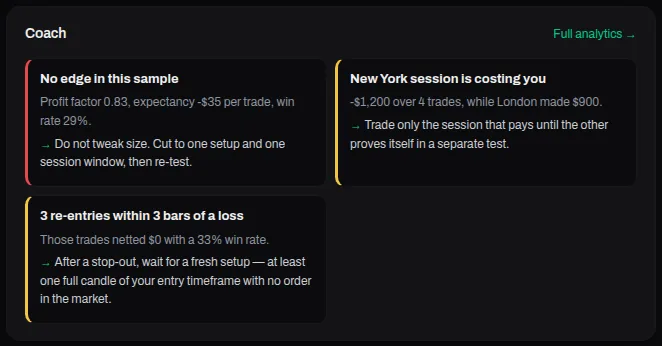
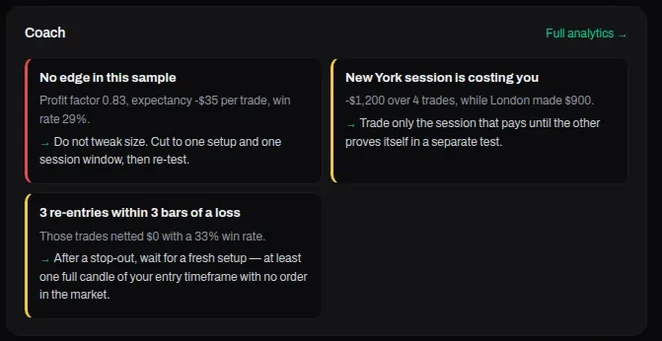
Release 369: image frames + cards on backtesting and community
Improvement 2 on the two new pages: .fp-pad on every row frame and the hero
body, data-fp-nopad on the logos, and every capture canvas-extended with the
app background (#0a0a0c) so no content meets the frame edge (pixels unchanged,
scaled back to the original width; width/height, aspect-ratio and the one
community overlay box remapped). Improvement 1 (cards + pulsing string) comes
from the shared template. Visible text is identical to 04f617a4 / 78ba9a4e.

diff --git a/features/backtesting.html b/features/backtesting.html
@@ -90,7 +90,7 @@
 <nav class="nav" id="site-nav">
   <div class="nav-inner">
     <a href="/" class="brand">
-      <img class="brand-mark" src="/assets/images/logo-header.webp" alt="Stryker Trading Academy" width="243" height="160" onerror="this.onerror=null;this.src='/assets/images/logo-header.png';">
+      <img class="brand-mark" data-fp-nopad src="/assets/images/logo-header.webp" alt="Stryker Trading Academy" width="243" height="160" onerror="this.onerror=null;this.src='/assets/images/logo-header.png';">
     </a>
     <div class="nav-links">
       <a href="/features">Features</a>
@@ -112,8 +112,8 @@
 <h1>Practise on past charts, <em>one bar at a time</em></h1>
 <figure class="gv-term solo" data-fp-play>
 <div class="gv-term-bar"><span class="gv-dot"></span><b>REPLAY · PRACTICE SESSION</b></div>
-<div class="gv-term-body">
-<div class="gv-chart"><picture><source media="(max-width:600px)" srcset="/assets/images/backtesting/hero-m.webp" width="740" height="430"><img src="/assets/images/backtesting/hero.webp" width="1000" height="582" fetchpriority="high" decoding="async" alt="The Stryker replay workspace with a demo practice session: a BTC/USDT 5-minute candlestick chart with a stop and target drawn on it, a play and step control, and an account panel with one open position."></picture></div>
+<div class="gv-term-body fp-pad">
+<div class="gv-chart"><picture><source media="(max-width:600px)" srcset="/assets/images/backtesting/hero-m.webp" width="740" height="436"><img src="/assets/images/backtesting/hero.webp" width="1000" height="598" fetchpriority="high" decoding="async" alt="The Stryker replay workspace with a demo practice session: a BTC/USDT 5-minute candlestick chart with a stop and target drawn on it, a play and step control, and an account panel with one open position."></picture></div>
 </div>
 <figcaption class="fg-cap">Demo data. A practice replay session on BTC/USDT.</figcaption>
 </figure>
@@ -122,7 +122,7 @@
 <p class="fg-note">Every number in these screenshots comes from one demo practice session. Education only. Not financial advice.</p>
 </header>
 <div class="container">
-<section class="ft-section sx" id="whats-on-the-page"><div class="ft-section-head ft-reveal"><h2>What’s in replay and backtesting</h2><p>Real screens from the tool, filled by one short demo practice session. Scroll through, or jump to one.</p></div><nav class="sx-index" aria-label="Jump to a feature"><div><a href="#sx-f-replay" data-fp-ix="replay"><em>01</em>Replay</a><a href="#sx-f-orders" data-fp-ix="orders"><em>02</em>Orders</a><a href="#sx-f-trades" data-fp-ix="trades"><em>03</em>Trades</a><a href="#sx-f-dashboard" data-fp-ix="dashboard"><em>04</em>Dashboard</a><a href="#sx-f-coach" data-fp-ix="coach"><em>05</em>Coach</a><a href="#sx-f-drawdown" data-fp-ix="drawdown"><em>06</em>Drawdown</a><a href="#sx-f-simulation" data-fp-ix="simulation"><em>07</em>Simulation</a><a href="#sx-f-side" data-fp-ix="side"><em>08</em>Breakdowns</a><a href="#sx-f-sessions" data-fp-ix="sessions"><em>09</em>Sessions</a></div></nav><div class="sx-rows"><article class="sx-row" id="sx-f-replay" data-fp-row="replay"><div class="sx-frame"><div class="sx-media" style="aspect-ratio:1000/582;--ar:1.7182"><img src="/assets/images/backtesting/hero.webp" width="1000" height="582" loading="lazy" decoding="async" alt="Replay workspace with demo data: a candlestick chart, timeframe buttons, drawing tools on the left and a play, +1 and +10 bar control."></div><p class="sx-cap">Demo data. The replay chart.</p></div><div class="sx-copy"><span class="sx-n">01 / 09</span><h3>Bar-by-bar replay</h3><p class="sx-text">The chart only shows what had happened up to the current bar. Play it at a chosen speed, step one or ten bars, or jump to the next day or the New York open.</p><details class="sx-how"><summary>How it works</summary><p>Choose a market, a start date and a window of one week to a few months. Futures, forex and crypto candles are loaded once and kept in your browser, or you can load your own CSV file. Switch timeframes from 1 minute up to weekly, and add a higher-timeframe chart beside it.</p></details></div></article><article class="sx-row flip" id="sx-f-orders" data-fp-row="orders"><div class="sx-frame"><div class="sx-media" style="aspect-ratio:327/279;--ar:1.1720"><img src="/assets/images/backtesting/orders.webp" width="327" height="279" loading="lazy" decoding="async" alt="Replay account panel with demo data: balance, equity, open and net P&L, and one open position with stop and target fields."></div><p class="sx-cap">Demo data. The practice account and an open position.</p></div><div class="sx-copy"><span class="sx-n">02 / 09</span><h3>Simulated orders</h3><p class="sx-text">Buy or sell from the chart, the order ticket or the keyboard. Attach a stop and a target, move them, or close part of a position. The practice account tracks balance, equity and open P&L as you step.</p><details class="sx-how"><summary>How it works</summary><p>Fills are conservative: market orders fill at the last close plus any slippage you set, gaps fill at the open, and if one bar touches both your stop and your target the stop counts first. Commission per contract can be set per session.</p></details></div></article><article class="sx-row" id="sx-f-trades" data-fp-row="trades"><div class="sx-frame"><div class="sx-media" style="aspect-ratio:1000/423;--ar:2.3641"><img src="/assets/images/backtesting/trades.webp" width="1000" height="423" loading="lazy" decoding="async" alt="Backtesting trades table with demo data: date, session, market, side, size, entry and exit, P&L, R-multiple and exit reason."></div><p class="sx-cap">Demo data. Trades from the practice session.</p></div><div class="sx-copy"><span class="sx-n">03 / 09</span><h3>Every trade, logged</h3><p class="sx-text">Each closed practice trade is listed with its session, side, size, entry and exit, R-multiple and why it closed. Tag the setup and any mistake, and add a note.</p><details class="sx-how"><summary>How it works</summary><p>Filter by market, side, outcome, session, setup, weekday, hour or date. Trades can be exported to CSV or copied into your trade journal.</p></details></div></article><article class="sx-row flip" id="sx-f-dashboard" data-fp-row="dashboard"><div class="sx-frame"><div class="sx-media" style="aspect-ratio:1000/264;--ar:3.7879"><img src="/assets/images/backtesting/pnl.webp" width="1000" height="264" loading="lazy" decoding="async" alt="Backtesting dashboard with demo data: a profit and loss line over the practice session."></div><p class="sx-cap">Demo data. Practice P&L over time.</p></div><div class="sx-copy"><span class="sx-n">04 / 09</span><h3>Backtesting dashboard</h3><p class="sx-text">One dashboard across all your practice sessions: P&L over time, win and loss breakdowns, performance by side and by trading session, recent sessions and a P&L calendar.</p><details class="sx-how"><summary>How it works</summary><p>Sessions are saved in your browser as you go, with a copy on your account so you can resume on another device.</p></details></div></article><article class="sx-row" id="sx-f-coach" data-fp-row="coach"><div class="sx-frame"><div class="sx-media" style="aspect-ratio:662/346;--ar:1.9133"><img src="/assets/images/backtesting/coach.webp" width="662" height="346" loading="lazy" decoding="async" alt="Replay coach card with demo data: findings about the sample size, a losing trading session and re-entries after a loss, each with a suggestion."></div><p class="sx-cap">Demo data. Coach findings on the practice session.</p></div><div class="sx-copy"><span class="sx-n">05 / 09</span><h3>The replay coach</h3><p class="sx-text">Rule-based checks on your own practice trades: losing streaks, overtrading, re-entries straight after a loss, which session costs you, and your most frequent tagged mistake. Each finding comes with a suggestion.</p><details class="sx-how"><summary>How it works</summary><p>It is a fixed set of rules that runs in your browser on your own trades. It is not a chatbot and nothing is sent anywhere for it. While you trade it can also show a short nudge, for example after several losses in a row.</p></details></div></article><article class="sx-row flip" id="sx-f-drawdown" data-fp-row="drawdown"><div class="sx-frame"><div class="sx-media" style="aspect-ratio:1000/603;--ar:1.6584"><img src="/assets/images/backtesting/drawdown.webp" width="1000" height="603" loading="lazy" decoding="async" alt="Backtesting drawdown view with demo data: drawdown stat cards above a drawdown chart and an equity chart."></div><p class="sx-cap">Demo data. Drawdown and equity for the practice session.</p></div><div class="sx-copy"><span class="sx-n">06 / 09</span><h3>Drawdown and equity</h3><p class="sx-text">How deep and how long your practice equity fell from its high, next to the equity curve itself.</p><details class="sx-how"><summary>How it works</summary><p>Drawn from closed practice trades and the starting balance you chose for each session.</p></details></div></article><article class="sx-row" id="sx-f-simulation" data-fp-row="simulation"><div class="sx-frame"><div class="sx-media" style="aspect-ratio:1000/469;--ar:2.1322"><img src="/assets/images/backtesting/sim.webp" width="1000" height="469" loading="lazy" decoding="async" alt="Backtesting simulation view with demo data: shuffled-order outcome bands around the practice equity curve."></div><p class="sx-cap">Demo data. Simulation output, not a forecast.</p></div><div class="sx-copy"><span class="sx-n">07 / 09</span><h3>Trade-order simulation</h3><p class="sx-text">Shuffles the order of your practice trades many times to show how much the same trades could have swung in a different sequence.</p><details class="sx-how"><summary>How it’s calculated</summary><p>It re-orders the trades you already took. It does not create new trades and it is not a forecast: a small sample, like the one here, says very little.</p></details></div></article><article class="sx-row flip" id="sx-f-side" data-fp-row="side"><div class="sx-frame"><div class="sx-media" style="aspect-ratio:1000/174;--ar:5.7471"><img src="/assets/images/backtesting/side.webp" width="1000" height="174" loading="lazy" decoding="async" alt="Backtesting analytics with demo data: donut charts splitting practice trades by long and short."></div><p class="sx-cap">Demo data. Long against short.</p></div><div class="sx-copy"><span class="sx-n">08 / 09</span><h3>Breakdowns</h3><p class="sx-text">Split your practice trades by side, session, hour, weekday, setup tag, market and exit reason, and see where the R-multiples cluster.</p><details class="sx-how"><summary>How it works</summary><p>Every chart uses the same filters as the trades table.</p></details></div></article><article class="sx-row" id="sx-f-sessions" data-fp-row="sessions"><div class="sx-frame"><div class="sx-media" style="aspect-ratio:1000/169;--ar:5.9172"><img src="/assets/images/backtesting/sessions.webp" width="1000" height="169" loading="lazy" decoding="async" alt="A saved replay session card with demo data: name, market, progress ring, P&L and a resume button."></div><p class="sx-cap">Demo data. A saved practice session.</p></div><div class="sx-copy"><span class="sx-n">09 / 09</span><h3>Saved sessions</h3><p class="sx-text">Every session keeps its place, drawings, indicators and orders, so you can stop and resume where you left off.</p><details class="sx-how"><summary>How it works</summary><p>Rename, resume or delete sessions from the Sessions view.</p></details></div></article></div></section>
+<section class="ft-section sx" id="whats-on-the-page"><div class="ft-section-head ft-reveal"><h2>What’s in replay and backtesting</h2><p>Real screens from the tool, filled by one short demo practice session. Scroll through, or jump to one.</p></div><nav class="sx-index" aria-label="Jump to a feature"><div><a href="#sx-f-replay" data-fp-ix="replay"><em>01</em>Replay</a><a href="#sx-f-orders" data-fp-ix="orders"><em>02</em>Orders</a><a href="#sx-f-trades" data-fp-ix="trades"><em>03</em>Trades</a><a href="#sx-f-dashboard" data-fp-ix="dashboard"><em>04</em>Dashboard</a><a href="#sx-f-coach" data-fp-ix="coach"><em>05</em>Coach</a><a href="#sx-f-drawdown" data-fp-ix="drawdown"><em>06</em>Drawdown</a><a href="#sx-f-simulation" data-fp-ix="simulation"><em>07</em>Simulation</a><a href="#sx-f-side" data-fp-ix="side"><em>08</em>Breakdowns</a><a href="#sx-f-sessions" data-fp-ix="sessions"><em>09</em>Sessions</a></div></nav><div class="sx-rows"><article class="sx-row" id="sx-f-replay" data-fp-row="replay"><div class="sx-frame fp-pad"><div class="sx-media" style="aspect-ratio:1000/598;--ar:1.6722"><img src="/assets/images/backtesting/hero.webp" width="1000" height="598" loading="lazy" decoding="async" alt="Replay workspace with demo data: a candlestick chart, timeframe buttons, drawing tools on the left and a play, +1 and +10 bar control."></div><p class="sx-cap">Demo data. The replay chart.</p></div><div class="sx-copy"><span class="sx-n">01 / 09</span><h3>Bar-by-bar replay</h3><p class="sx-text">The chart only shows what had happened up to the current bar. Play it at a chosen speed, step one or ten bars, or jump to the next day or the New York open.</p><details class="sx-how"><summary>How it works</summary><p>Choose a market, a start date and a window of one week to a few months. Futures, forex and crypto candles are loaded once and kept in your browser, or you can load your own CSV file. Switch timeframes from 1 minute up to weekly, and add a higher-timeframe chart beside it.</p></details></div></article><article class="sx-row flip" id="sx-f-orders" data-fp-row="orders"><div class="sx-frame fp-pad"><div class="sx-media" style="aspect-ratio:327/272;--ar:1.2022"><img src="/assets/images/backtesting/orders.webp" width="327" height="272" loading="lazy" decoding="async" alt="Replay account panel with demo data: balance, equity, open and net P&L, and one open position with stop and target fields."></div><p class="sx-cap">Demo data. The practice account and an open position.</p></div><div class="sx-copy"><span class="sx-n">02 / 09</span><h3>Simulated orders</h3><p class="sx-text">Buy or sell from the chart, the order ticket or the keyboard. Attach a stop and a target, move them, or close part of a position. The practice account tracks balance, equity and open P&L as you step.</p><details class="sx-how"><summary>How it works</summary><p>Fills are conservative: market orders fill at the last close plus any slippage you set, gaps fill at the open, and if one bar touches both your stop and your target the stop counts first. Commission per contract can be set per session.</p></details></div></article><article class="sx-row" id="sx-f-trades" data-fp-row="trades"><div class="sx-frame fp-pad"><div class="sx-media" style="aspect-ratio:1000/444;--ar:2.2523"><img src="/assets/images/backtesting/trades.webp" width="1000" height="444" loading="lazy" decoding="async" alt="Backtesting trades table with demo data: date, session, market, side, size, entry and exit, P&L, R-multiple and exit reason."></div><p class="sx-cap">Demo data. Trades from the practice session.</p></div><div class="sx-copy"><span class="sx-n">03 / 09</span><h3>Every trade, logged</h3><p class="sx-text">Each closed practice trade is listed with its session, side, size, entry and exit, R-multiple and why it closed. Tag the setup and any mistake, and add a note.</p><details class="sx-how"><summary>How it works</summary><p>Filter by market, side, outcome, session, setup, weekday, hour or date. Trades can be exported to CSV or copied into your trade journal.</p></details></div></article><article class="sx-row flip" id="sx-f-dashboard" data-fp-row="dashboard"><div class="sx-frame fp-pad"><div class="sx-media" style="aspect-ratio:1000/266;--ar:3.7594"><img src="/assets/images/backtesting/pnl.webp" width="1000" height="266" loading="lazy" decoding="async" alt="Backtesting dashboard with demo data: a profit and loss line over the practice session."></div><p class="sx-cap">Demo data. Practice P&L over time.</p></div><div class="sx-copy"><span class="sx-n">04 / 09</span><h3>Backtesting dashboard</h3><p class="sx-text">One dashboard across all your practice sessions: P&L over time, win and loss breakdowns, performance by side and by trading session, recent sessions and a P&L calendar.</p><details class="sx-how"><summary>How it works</summary><p>Sessions are saved in your browser as you go, with a copy on your account so you can resume on another device.</p></details></div></article><article class="sx-row" id="sx-f-coach" data-fp-row="coach"><div class="sx-frame fp-pad"><div class="sx-media" style="aspect-ratio:662/341;--ar:1.9413"><img src="/assets/images/backtesting/coach.webp" width="662" height="341" loading="lazy" decoding="async" alt="Replay coach card with demo data: findings about the sample size, a losing trading session and re-entries after a loss, each with a suggestion."></div><p class="sx-cap">Demo data. Coach findings on the practice session.</p></div><div class="sx-copy"><span class="sx-n">05 / 09</span><h3>The replay coach</h3><p class="sx-text">Rule-based checks on your own practice trades: losing streaks, overtrading, re-entries straight after a loss, which session costs you, and your most frequent tagged mistake. Each finding comes with a suggestion.</p><details class="sx-how"><summary>How it works</summary><p>It is a fixed set of rules that runs in your browser on your own trades. It is not a chatbot and nothing is sent anywhere for it. While you trade it can also show a short nudge, for example after several losses in a row.</p></details></div></article><article class="sx-row flip" id="sx-f-drawdown" data-fp-row="drawdown"><div class="sx-frame fp-pad"><div class="sx-media" style="aspect-ratio:1000/621;--ar:1.6103"><img src="/assets/images/backtesting/drawdown.webp" width="1000" height="621" loading="lazy" decoding="async" alt="Backtesting drawdown view with demo data: drawdown stat cards above a drawdown chart and an equity chart."></div><p class="sx-cap">Demo data. Drawdown and equity for the practice session.</p></div><div class="sx-copy"><span class="sx-n">06 / 09</span><h3>Drawdown and equity</h3><p class="sx-text">How deep and how long your practice equity fell from its high, next to the equity curve itself.</p><details class="sx-how"><summary>How it works</summary><p>Drawn from closed practice trades and the starting balance you chose for each session.</p></details></div></article><article class="sx-row" id="sx-f-simulation" data-fp-row="simulation"><div class="sx-frame fp-pad"><div class="sx-media" style="aspect-ratio:1000/495;--ar:2.0202"><img src="/assets/images/backtesting/sim.webp" width="1000" height="495" loading="lazy" decoding="async" alt="Backtesting simulation view with demo data: shuffled-order outcome bands around the practice equity curve."></div><p class="sx-cap">Demo data. Simulation output, not a forecast.</p></div><div class="sx-copy"><span class="sx-n">07 / 09</span><h3>Trade-order simulation</h3><p class="sx-text">Shuffles the order of your practice trades many times to show how much the same trades could have swung in a different sequence.</p><details class="sx-how"><summary>How it’s calculated</summary><p>It re-orders the trades you already took. It does not create new trades and it is not a forecast: a small sample, like the one here, says very little.</p></details></div></article><article class="sx-row flip" id="sx-f-side" data-fp-row="side"><div class="sx-frame fp-pad"><div class="sx-media" style="aspect-ratio:1000/180;--ar:5.5556"><img src="/assets/images/backtesting/side.webp" width="1000" height="180" loading="lazy" decoding="async" alt="Backtesting analytics with demo data: donut charts splitting practice trades by long and short."></div><p class="sx-cap">Demo data. Long against short.</p></div><div class="sx-copy"><span class="sx-n">08 / 09</span><h3>Breakdowns</h3><p class="sx-text">Split your practice trades by side, session, hour, weekday, setup tag, market and exit reason, and see where the R-multiples cluster.</p><details class="sx-how"><summary>How it works</summary><p>Every chart uses the same filters as the trades table.</p></details></div></article><article class="sx-row" id="sx-f-sessions" data-fp-row="sessions"><div class="sx-frame fp-pad"><div class="sx-media" style="aspect-ratio:1000/192;--ar:5.2083"><img src="/assets/images/backtesting/sessions.webp" width="1000" height="192" loading="lazy" decoding="async" alt="A saved replay session card with demo data: name, market, progress ring, P&L and a resume button."></div><p class="sx-cap">Demo data. A saved practice session.</p></div><div class="sx-copy"><span class="sx-n">09 / 09</span><h3>Saved sessions</h3><p class="sx-text">Every session keeps its place, drawings, indicators and orders, so you can stop and resume where you left off.</p><details class="sx-how"><summary>How it works</summary><p>Rename, resume or delete sessions from the Sessions view.</p></details></div></article></div></section>
 
 <section class="ft-section" id="how-it-works">
 <div class="ft-section-head ft-reveal"><h2>Set up, replay, review</h2><p>A practice session takes a few minutes to start.</p></div>
@@ -167,7 +167,7 @@
     <div class="footer-grid">
       <div>
         <a href="/" class="brand" style="margin-bottom:14px;">
-          <img class="brand-mark" src="/assets/images/logo-header.webp" alt="Stryker Trading Academy" width="243" height="160" onerror="this.onerror=null;this.src='/assets/images/logo-header.png';">
+          <img class="brand-mark" data-fp-nopad src="/assets/images/logo-header.webp" alt="Stryker Trading Academy" width="243" height="160" onerror="this.onerror=null;this.src='/assets/images/logo-header.png';">
         </a>
         <p style="color:var(--ink-3); font-size:13.5px; max-width:280px;">Chapter-based ICT and SMT trading education, built like a trading desk curriculum.</p>
       </div>

diff --git a/features/community.html b/features/community.html
@@ -90,7 +90,7 @@
 <nav class="nav" id="site-nav">
   <div class="nav-inner">
     <a href="/" class="brand">
-      <img class="brand-mark" src="/assets/images/logo-header.webp" alt="Stryker Trading Academy" width="243" height="160" onerror="this.onerror=null;this.src='/assets/images/logo-header.png';">
+      <img class="brand-mark" data-fp-nopad src="/assets/images/logo-header.webp" alt="Stryker Trading Academy" width="243" height="160" onerror="this.onerror=null;this.src='/assets/images/logo-header.png';">
     </a>
     <div class="nav-links">
       <a href="/features">Features</a>
@@ -112,8 +112,8 @@
 <h1>Study with people <em>on the same path</em></h1>
 <figure class="gv-term solo" data-fp-play>
 <div class="gv-term-bar"><span class="gv-dot"></span><b>Trading Floor · Posts</b></div>
-<div class="gv-term-body">
-<div class="gv-chart"><picture><source media="(max-width:600px)" srcset="/assets/images/community/hero-390.webp" width="700" height="636"><img src="/assets/images/community/hero-1440.webp" width="1366" height="574" fetchpriority="high" decoding="async" alt="The Trading Floor: Posts and Prop firm feed tabs, New, Top, Trending, Setups and Questions filters, and one post from a demo trader with a Setup flair."></picture></div>
+<div class="gv-term-body fp-pad">
+<div class="gv-chart"><picture><source media="(max-width:600px)" srcset="/assets/images/community/hero-390.webp" width="700" height="639"><img src="/assets/images/community/hero-1440.webp" width="1366" height="605" fetchpriority="high" decoding="async" alt="The Trading Floor: Posts and Prop firm feed tabs, New, Top, Trending, Setups and Questions filters, and one post from a demo trader with a Setup flair."></picture></div>
 </div>
 <figcaption class="fg-cap">The Trading Floor with one staged post. Demo data.</figcaption>
 </figure>
@@ -123,10 +123,10 @@
 </header>
 <div class="container">
 <section class="ft-section sx" id="whats-on-the-page"><div class="ft-section-head ft-reveal"><h2>What the community includes</h2><p>Three parts of the members’ area that sit around the curriculum.</p></div><nav class="sx-index" aria-label="Jump to a feature"><div><a href="#sx-f-floor" data-fp-ix="floor"><em>01</em>Trading Floor</a><a href="#sx-f-achievements" data-fp-ix="achievements"><em>02</em>Achievements</a><a href="#sx-f-referrals" data-fp-ix="referrals"><em>03</em>Invite & earn</a><a href="#sx-f-mobile" data-fp-ix="mobile"><em>04</em>Mobile</a></div></nav><div class="sx-rows">
-<article class="sx-row" id="sx-f-floor" data-fp-row="floor"><div class="sx-frame"><div class="sx-media" style="aspect-ratio:740/311;--ar:2.3794"><img src="/assets/images/community/floor.webp" width="740" height="311" loading="lazy" decoding="async" alt="A post on the Trading Floor with its author, Setup flair, text and the like, up, down, save and reply buttons."><i class="sx-box" style="--x:1.5%;--y:18%;--bw:97%;--bh:13%;--n:1"></i></div><p class="sx-cap">One staged post. Demo data.</p></div><div class="sx-copy"><span class="sx-n">01 / 04</span><h3>The Trading Floor</h3><p class="sx-text">Post daily bias, questions or setups. Posts are visible to every signed-in student, with New, Top and Trending sorting and Setups and Questions filters.</p><details class="sx-how"><summary>How it works</summary><p>Flair a post as a Setup or a Question so others can filter for it. Members react, vote, save and reply. Posting, reacting and replying depend on your plan; others can read.</p></details></div></article>
-<article class="sx-row flip" id="sx-f-achievements" data-fp-row="achievements"><div class="sx-frame"><div class="sx-media" style="aspect-ratio:740/435;--ar:1.7011"><img src="/assets/images/community/achievements.webp" width="740" height="435" loading="lazy" decoding="async" alt="The achievements page: badge cards grouped under Curriculum and Lessons, some unlocked with a check mark and the rest locked."></div><p class="sx-cap">Badges on a demo account. Demo data.</p></div><div class="sx-copy"><span class="sx-n">02 / 04</span><h3>Badges for real progress</h3><p class="sx-text">Badges unlock as you finish chapters and lessons, keep a streak, fill in your profile, use the journal, take part on the floor and invite friends.</p><details class="sx-how"><summary>How it works</summary><p>Each badge says what it takes, and locked badges stay visible so you can see what is next.</p></details></div></article>
-<article class="sx-row" id="sx-f-referrals" data-fp-row="referrals"><div class="sx-frame"><div class="sx-media" style="aspect-ratio:740/252;--ar:2.9365"><img src="/assets/images/community/referrals.webp" width="740" height="252" loading="lazy" decoding="async" alt="The Invite and earn page: the invite link (blurred) with a Copy link button and the member code (blurred)."></div><p class="sx-cap">The invite link, blurred. Demo account.</p></div><div class="sx-copy"><span class="sx-n">03 / 04</span><h3>Invite & earn</h3><p class="sx-text">Share your link, earn points for every trader who joins — and see how you rank.</p><details class="sx-how"><summary>How it works</summary><p>Anyone who signs up through this link is credited to you automatically.</p></details></div></article>
-<article class="sx-row flip" id="sx-f-mobile" data-fp-row="mobile"><div class="sx-frame"><div class="sx-media" style="aspect-ratio:700/636;--ar:1.1006"><img src="/assets/images/community/mobile.webp" width="700" height="636" loading="lazy" decoding="async" alt="The Trading Floor on a phone, with the filters and one post."></div><p class="sx-cap">The Trading Floor on a phone. Demo data.</p></div><div class="sx-copy"><span class="sx-n">04 / 04</span><h3>On any screen</h3><p class="sx-text">The floor, your badges and your invite link all work on a phone.</p><details class="sx-how"><summary>How it works</summary><p>Same account, same posts, wherever you are.</p></details></div></article>
+<article class="sx-row" id="sx-f-floor" data-fp-row="floor"><div class="sx-frame fp-pad"><div class="sx-media" style="aspect-ratio:740/328;--ar:2.2561"><img src="/assets/images/community/floor.webp" width="740" height="328" loading="lazy" decoding="async" alt="A post on the Trading Floor with its author, Setup flair, text and the like, up, down, save and reply buttons."><i class="sx-box" style="--x:3.51%;--y:21.05%;--bw:92.98%;--bh:11.82%;--n:1"></i></div><p class="sx-cap">One staged post. Demo data.</p></div><div class="sx-copy"><span class="sx-n">01 / 04</span><h3>The Trading Floor</h3><p class="sx-text">Post daily bias, questions or setups. Posts are visible to every signed-in student, with New, Top and Trending sorting and Setups and Questions filters.</p><details class="sx-how"><summary>How it works</summary><p>Flair a post as a Setup or a Question so others can filter for it. Members react, vote, save and reply. Posting, reacting and replying depend on your plan; others can read.</p></details></div></article>
+<article class="sx-row flip" id="sx-f-achievements" data-fp-row="achievements"><div class="sx-frame fp-pad"><div class="sx-media" style="aspect-ratio:740/433;--ar:1.7090"><img src="/assets/images/community/achievements.webp" width="740" height="433" loading="lazy" decoding="async" alt="The achievements page: badge cards grouped under Curriculum and Lessons, some unlocked with a check mark and the rest locked."></div><p class="sx-cap">Badges on a demo account. Demo data.</p></div><div class="sx-copy"><span class="sx-n">02 / 04</span><h3>Badges for real progress</h3><p class="sx-text">Badges unlock as you finish chapters and lessons, keep a streak, fill in your profile, use the journal, take part on the floor and invite friends.</p><details class="sx-how"><summary>How it works</summary><p>Each badge says what it takes, and locked badges stay visible so you can see what is next.</p></details></div></article>
+<article class="sx-row" id="sx-f-referrals" data-fp-row="referrals"><div class="sx-frame fp-pad"><div class="sx-media" style="aspect-ratio:740/267;--ar:2.7715"><img src="/assets/images/community/referrals.webp" width="740" height="267" loading="lazy" decoding="async" alt="The Invite and earn page: the invite link (blurred) with a Copy link button and the member code (blurred)."></div><p class="sx-cap">The invite link, blurred. Demo account.</p></div><div class="sx-copy"><span class="sx-n">03 / 04</span><h3>Invite & earn</h3><p class="sx-text">Share your link, earn points for every trader who joins — and see how you rank.</p><details class="sx-how"><summary>How it works</summary><p>Anyone who signs up through this link is credited to you automatically.</p></details></div></article>
+<article class="sx-row flip" id="sx-f-mobile" data-fp-row="mobile"><div class="sx-frame fp-pad"><div class="sx-media" style="aspect-ratio:700/639;--ar:1.0955"><img src="/assets/images/community/mobile.webp" width="700" height="639" loading="lazy" decoding="async" alt="The Trading Floor on a phone, with the filters and one post."></div><p class="sx-cap">The Trading Floor on a phone. Demo data.</p></div><div class="sx-copy"><span class="sx-n">04 / 04</span><h3>On any screen</h3><p class="sx-text">The floor, your badges and your invite link all work on a phone.</p><details class="sx-how"><summary>How it works</summary><p>Same account, same posts, wherever you are.</p></details></div></article>
 </div></section>
 
 <section class="ft-section" id="how-it-fits">
@@ -154,7 +154,7 @@
     <div class="footer-grid">
       <div>
         <a href="/" class="brand" style="margin-bottom:14px;">
-          <img class="brand-mark" src="/assets/images/logo-header.webp" alt="Stryker Trading Academy" width="243" height="160" onerror="this.onerror=null;this.src='/assets/images/logo-header.png';">
+          <img class="brand-mark" data-fp-nopad src="/assets/images/logo-header.webp" alt="Stryker Trading Academy" width="243" height="160" onerror="this.onerror=null;this.src='/assets/images/logo-header.png';">
         </a>
         <p style="color:var(--ink-3); font-size:13.5px; max-width:280px;">Chapter-based ICT and SMT trading education, built like a trading desk curriculum.</p>
       </div>
